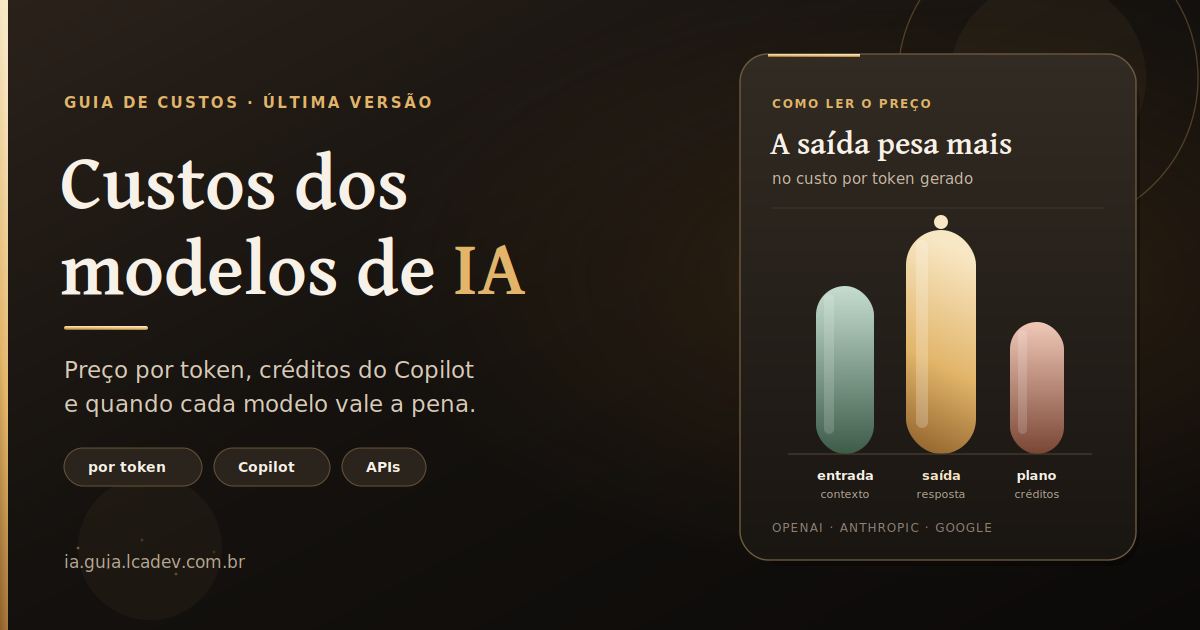
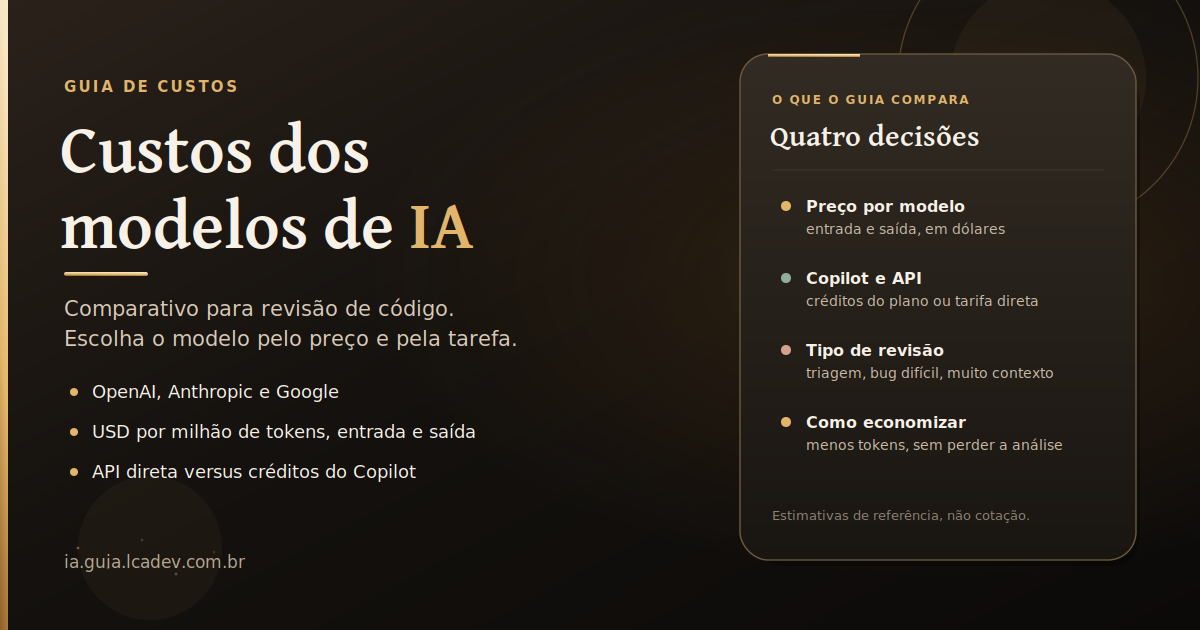
- og-guia melhorado

Changed region(s): [[0.0308, 0.1206, 0.4317, 0.7841], [0.6167, 0.1508, 0.8942, 0.8444], [0.8325, 0.754, 0.8942, 0.7841]]

diff --git a/gerar_og_guia.py b/gerar_og_guia.py
@@ -71,22 +71,22 @@ SVG = """\
     <circle cx="214" cy="552" r="1.4" opacity="0.18"/>
   </g>
 
-  <text x="64" y="108" fill="#e2b56a" font-family="DejaVu Sans, sans-serif" font-size="15" font-weight="700" letter-spacing="2.4">GUIA DE CUSTOS  ·  ÚLTIMA VERSÃO</text>
+  <text x="64" y="92" fill="#e2b56a" font-family="DejaVu Sans, sans-serif" font-size="15" font-weight="700" letter-spacing="2.4">GUIA DE CUSTOS</text>
 
-  <text x="60" y="208" fill="#f7f1e7" font-family="Gentium Plus, DejaVu Serif, Georgia, serif" font-size="76" font-weight="700">Custos dos</text>
-  <text x="60" y="294" fill="#f7f1e7" font-family="Gentium Plus, DejaVu Serif, Georgia, serif" font-size="76" font-weight="700">modelos de <tspan fill="#e2b56a">IA</tspan></text>
+  <text x="60" y="172" fill="#f7f1e7" font-family="Gentium Plus, DejaVu Serif, Georgia, serif" font-size="68" font-weight="700">Custos dos</text>
+  <text x="60" y="248" fill="#f7f1e7" font-family="Gentium Plus, DejaVu Serif, Georgia, serif" font-size="68" font-weight="700">modelos de <tspan fill="#e2b56a">IA</tspan></text>
 
-  <rect x="64" y="326" width="84" height="4" rx="2" fill="url(#gold)"/>
-  <text x="64" y="378" fill="#d9cbb8" font-family="DejaVu Sans, sans-serif" font-size="23">Preço por token, créditos do Copilot</text>
-  <text x="64" y="412" fill="#d9cbb8" font-family="DejaVu Sans, sans-serif" font-size="23">e quando cada modelo vale a pena.</text>
+  <rect x="64" y="272" width="84" height="4" rx="2" fill="url(#gold)"/>
+  <text x="64" y="316" fill="#d9cbb8" font-family="DejaVu Sans, sans-serif" font-size="21">Comparativo para revisão de código.</text>
+  <text x="64" y="346" fill="#d9cbb8" font-family="DejaVu Sans, sans-serif" font-size="21">Escolha o modelo pelo preço e pela tarefa.</text>
 
-  <g font-family="DejaVu Sans, sans-serif" font-size="14" font-weight="700" fill="#f7f1e7">
-    <rect x="64" y="448" width="138" height="38" rx="19" fill="#2a241c" stroke="#6a5438"/>
-    <text x="88" y="472">por token</text>
-    <rect x="214" y="448" width="116" height="38" rx="19" fill="#2a241c" stroke="#6a5438"/>
-    <text x="238" y="472">Copilot</text>
-    <rect x="342" y="448" width="84" height="38" rx="19" fill="#2a241c" stroke="#6a5438"/>
-    <text x="366" y="472">APIs</text>
+  <g font-family="DejaVu Sans, sans-serif" font-size="18" fill="#f7f1e7">
+    <circle cx="74" cy="392" r="4" fill="#e2b56a"/>
+    <text x="92" y="398">OpenAI, Anthropic e Google</text>
+    <circle cx="74" cy="432" r="4" fill="#e2b56a"/>
+    <text x="92" y="438">USD por milhão de tokens, entrada e saída</text>
+    <circle cx="74" cy="472" r="4" fill="#e2b56a"/>
+    <text x="92" y="478">API direta versus créditos do Copilot</text>
   </g>
 
   <text x="64" y="568" fill="#b7a894" font-family="DejaVu Sans, sans-serif" font-size="17">ia.guia.lcadev.com.br</text>
@@ -95,29 +95,28 @@ SVG = """\
   <rect x="740" y="54" width="396" height="506" rx="28" fill="url(#panel)" stroke="#6d5a40" stroke-width="1.4"/>
   <path d="M768 54h92v3H768z" fill="url(#gold)"/>
 
-  <text x="772" y="108" fill="#e2b56a" font-family="DejaVu Sans, sans-serif" font-size="12" font-weight="700" letter-spacing="1.7">COMO LER O PREÇO</text>
-  <text x="770" y="154" fill="#f7f1e7" font-family="Gentium Plus, DejaVu Serif, Georgia, serif" font-size="32" font-weight="700">A saída pesa mais</text>
-  <text x="772" y="184" fill="#cbbba6" font-family="DejaVu Sans, sans-serif" font-size="15">no custo por token gerado</text>
-  <line x1="772" y1="208" x2="1104" y2="208" stroke="#3f342b"/>
+  <text x="772" y="104" fill="#e2b56a" font-family="DejaVu Sans, sans-serif" font-size="12" font-weight="700" letter-spacing="1.7">O QUE O GUIA COMPARA</text>
+  <text x="770" y="146" fill="#f7f1e7" font-family="Gentium Plus, DejaVu Serif, Georgia, serif" font-size="30" font-weight="700">Quatro decisões</text>
+  <line x1="772" y1="170" x2="1104" y2="170" stroke="#3f342b"/>
 
-  <rect x="816" y="286" width="58" height="168" rx="29" fill="url(#sage)"/>
-  <rect x="824" y="294" width="10" height="140" rx="5" fill="#fff" opacity="0.16"/>
-  <rect x="906" y="230" width="70" height="224" rx="35" fill="url(#gold)"/>
-  <rect x="916" y="240" width="12" height="188" rx="6" fill="#fff" opacity="0.22"/>
-  <circle cx="941" cy="222" r="7" fill="#f8e7c4"/>
-  <rect x="1010" y="322" width="54" height="132" rx="27" fill="url(#clay)"/>
-  <rect x="1018" y="330" width="9" height="104" rx="4.5" fill="#fff" opacity="0.16"/>
-  <line x1="788" y1="454" x2="1092" y2="454" stroke="#4a3d30" stroke-width="1.2"/>
+  <g font-family="DejaVu Sans, sans-serif">
+    <circle cx="786" cy="206" r="5" fill="#e2b56a"/>
+    <text x="806" y="212" fill="#f7f1e7" font-size="16" font-weight="700">Preço por modelo</text>
+    <text x="806" y="234" fill="#cbbba6" font-size="14">entrada e saída, em dólares</text>
 
-  <g font-family="DejaVu Sans, sans-serif" text-anchor="middle">
-    <text x="845" y="480" fill="#f7f1e7" font-size="13" font-weight="700">entrada</text>
-    <text x="845" y="498" fill="#b7a894" font-size="11">contexto</text>
-    <text x="941" y="480" fill="#f8e7c4" font-size="13" font-weight="700">saída</text>
-    <text x="941" y="498" fill="#b7a894" font-size="11">resposta</text>
-    <text x="1037" y="480" fill="#f7f1e7" font-size="13" font-weight="700">plano</text>
-    <text x="1037" y="498" fill="#b7a894" font-size="11">créditos</text>
+    <circle cx="786" cy="278" r="5" fill="#8faf9c"/>
+    <text x="806" y="284" fill="#f7f1e7" font-size="16" font-weight="700">Copilot e API</text>
+    <text x="806" y="306" fill="#cbbba6" font-size="14">créditos do plano ou tarifa direta</text>
+
+    <circle cx="786" cy="350" r="5" fill="#d7a08e"/>
+    <text x="806" y="356" fill="#f7f1e7" font-size="16" font-weight="700">Tipo de revisão</text>
+    <text x="806" y="378" fill="#cbbba6" font-size="14">triagem, bug difícil, muito contexto</text>
+
+    <circle cx="786" cy="422" r="5" fill="#e2b56a"/>
+    <text x="806" y="428" fill="#f7f1e7" font-size="16" font-weight="700">Como economizar</text>
+    <text x="806" y="450" fill="#cbbba6" font-size="14">menos tokens, sem perder a análise</text>
   </g>
-  <text x="772" y="532" fill="#8f8274" font-family="DejaVu Sans, sans-serif" font-size="12" letter-spacing="1.2">OPENAI   ·   ANTHROPIC   ·   GOOGLE</text>
+  <text x="772" y="520" fill="#8f8274" font-family="DejaVu Sans, sans-serif" font-size="13">Estimativas de referência, não cotação.</text>
 </svg>
 """
 
